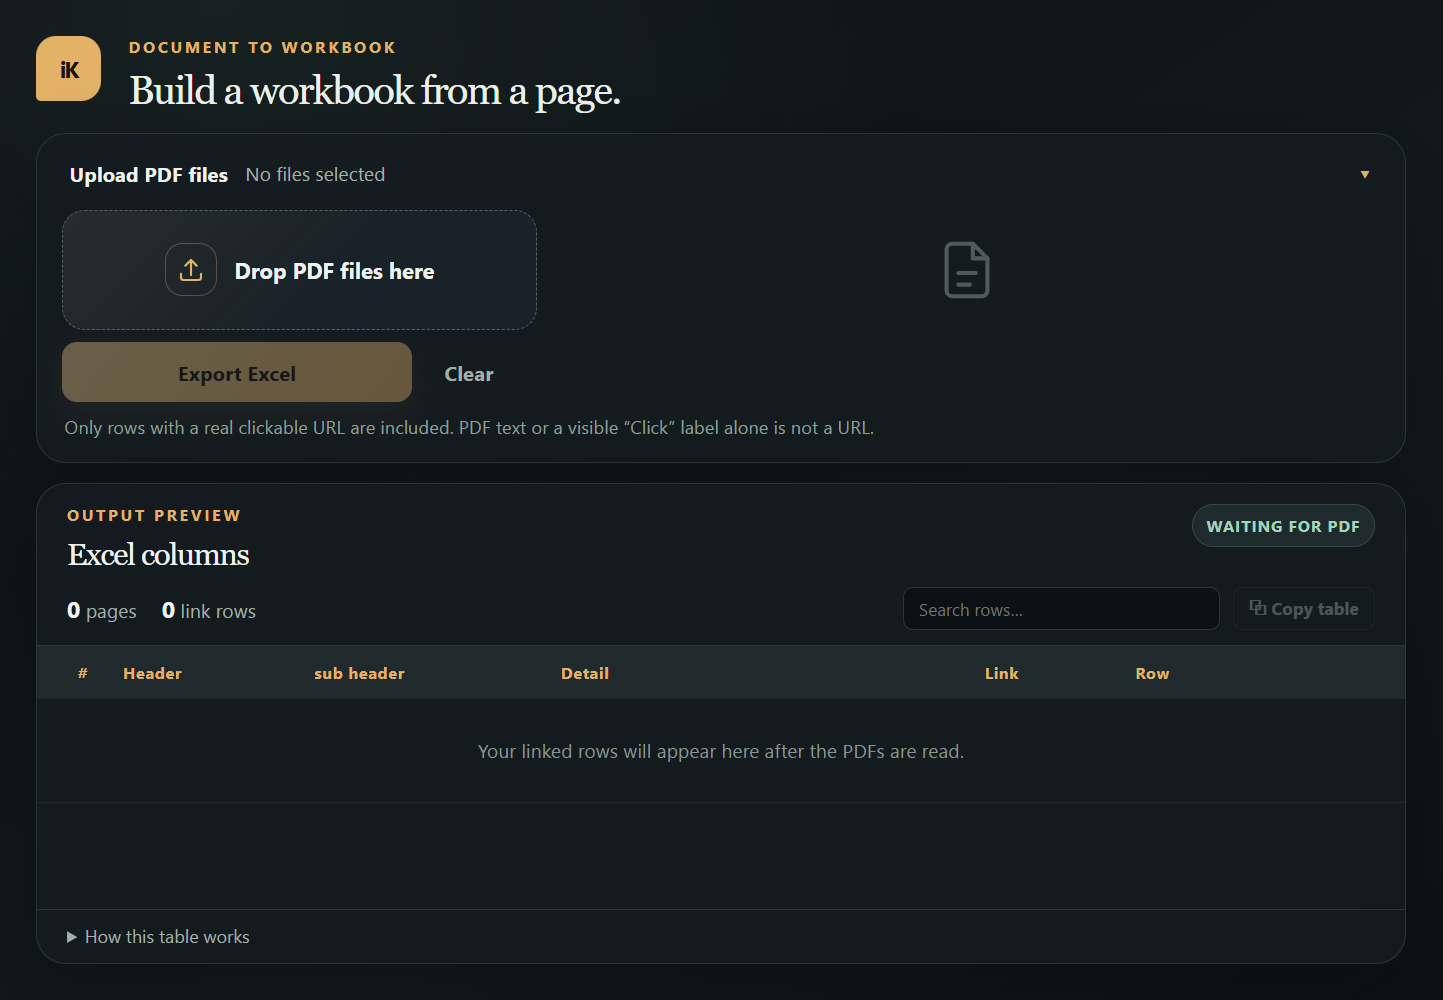
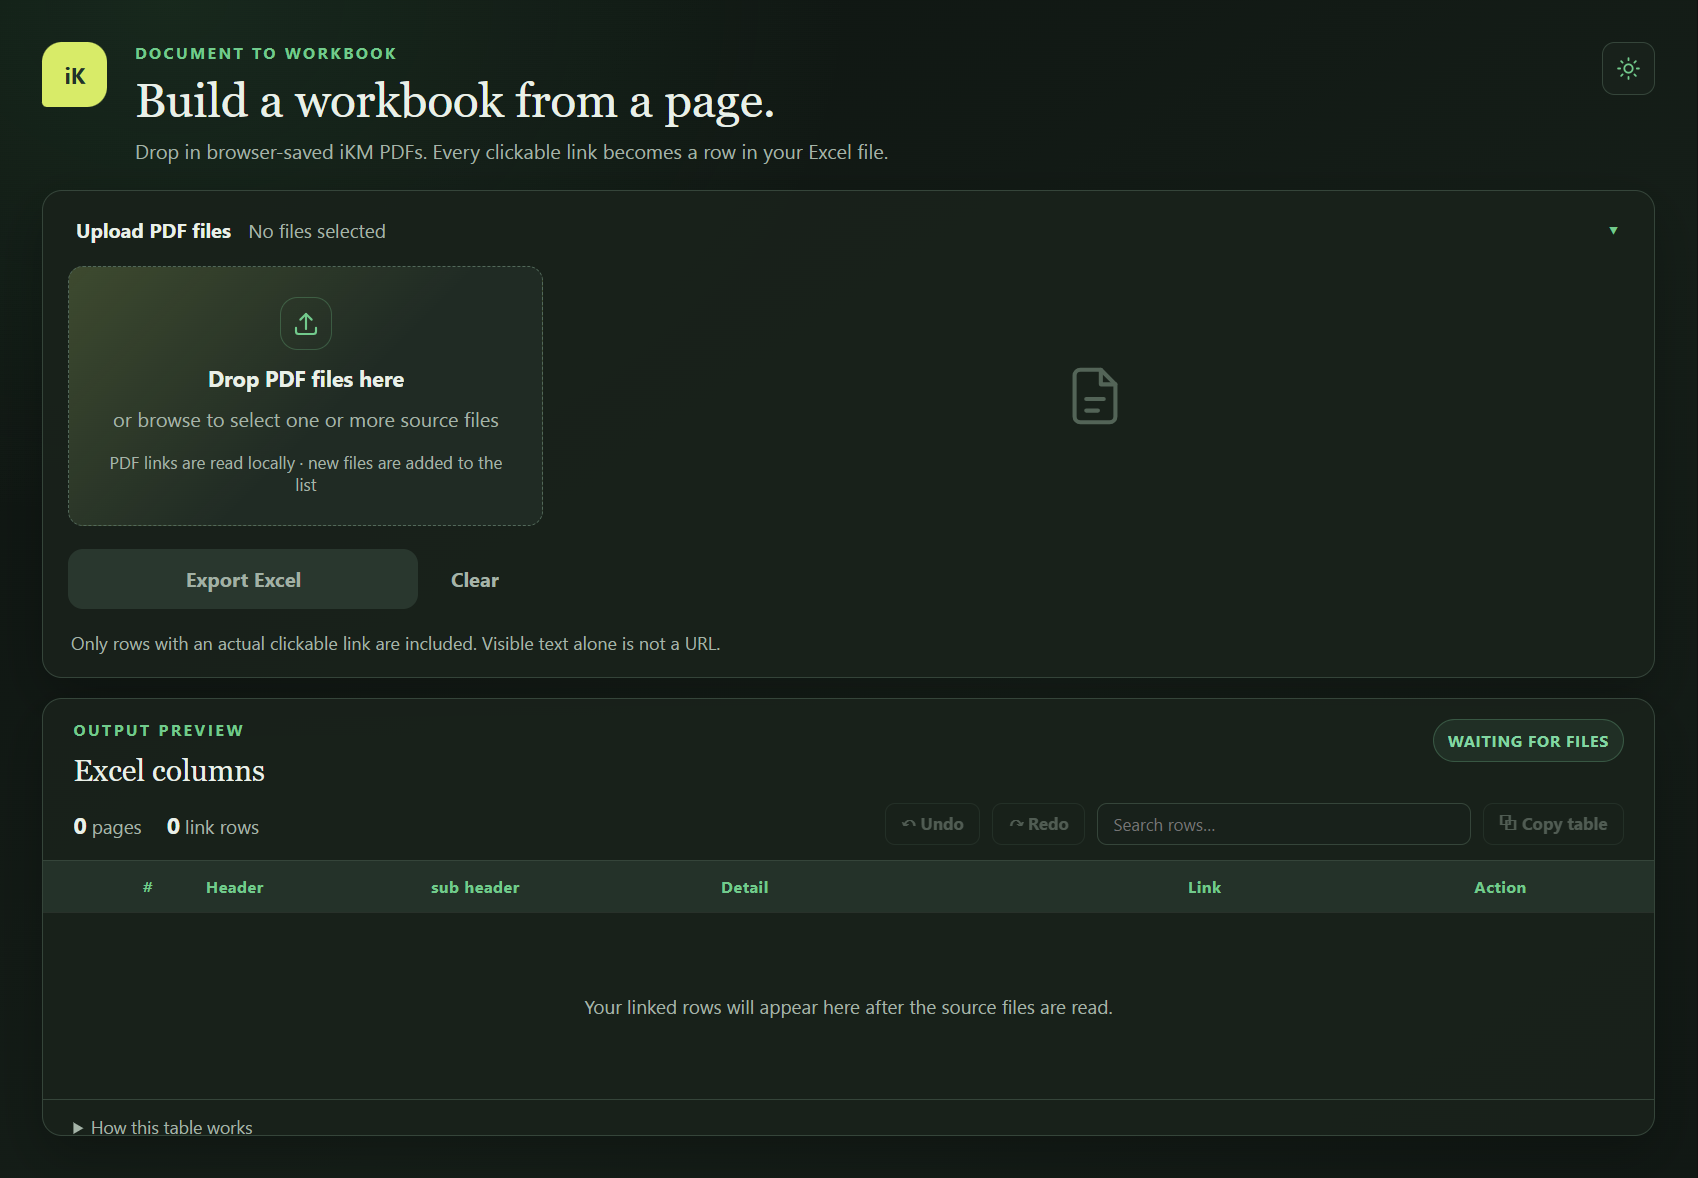
Update README usage steps and refresh screenshots

diff --git a/README.md b/README.md
@@ -35,19 +35,32 @@ Requirements: Python with `openpyxl` and `PyMuPDF` (both in `requirements.txt`).
 
 ## How to use it
 
-1. **Save the iKM page as PDF.** Use **Print → Save as PDF**; a screenshot or "Microsoft Print to PDF" does not keep clickable links.
-2. **Drop the PDF file(s) into the Upload area**, or click it to browse.
-3. **Wait for the progress bar.** The upload area then folds up into a summary such as `2 files · 29 pages · 78 links`, and the table moves up.
-4. **Review the table** (see [The preview table](#the-preview-table)): fix Detail text, adjust rows, search.
-5. **Get the result**, either way:
-   - **Export Excel** downloads one `.xlsx` (one sheet per PDF), or
-   - **⧉ Copy table** copies the open tab so you can paste it into Excel yourself.
+1. **Start the app.** Run `python server.py` and open the address it prints (default `http://127.0.0.1:8000/`). See [Quick start](#quick-start).
+2. **Save the iKM page as PDF.** In your browser use **Print → Save as PDF**. A screenshot or "Microsoft Print to PDF" does not keep clickable links. Repeat for every page you need.
+3. **Add the PDF file(s).** Drag them onto the Upload area, or click it to browse. Only `.pdf` files are accepted, and you can pick several at once.
+4. **Wait for the read to finish.** Each file shows its own progress while the server extracts the links. A file that cannot be read is marked **Failed** with the reason, and the other files are still loaded. When done, the upload area folds into a summary such as `2 files · 29 pages · 78 links` and the table appears.
+5. **Pick a file tab.** Each PDF gets its own tab with its row count. Click a tab to view or edit that file.
+6. **Review and fix the rows** (see [The preview table](#the-preview-table)):
+   1. Check **Detail** text and edit it where needed.
+   2. Edit **Header / sub header** if a group is wrong (unlock the cell to change just one row).
+   3. Open the pencil in **Link** to correct a URL (it must start with `http://` or `https://`).
+   4. Reorder with `⠿`, delete with `✕`, or add a row with the circled `+` between rows.
+   5. Use **Search rows…** to find a row; use **Undo / Redo** (Ctrl+Z / Ctrl+Y) if you change your mind.
+7. **Add or remove files if needed.** Open the **Upload PDF files** panel to add more PDFs, or press the trash-can button on a file's card to remove it and its rows (see below).
+8. **Get the result**, either way:
+   - **Export Excel** downloads one `.xlsx` (one sheet per PDF). If any hand-added or edited URL is empty or invalid, a **Check rows before export** dialog lists them; fix them and export again.
+   - **⧉ Copy table** copies the open tab so you can paste it into Excel yourself (see [Copy table](#copy-table)).
+9. **Start over (optional).** **Clear** removes every file and row after a confirmation.
 
 ![After reading two PDFs: the upload area folded into one line, one tab per PDF, and the preview table](docs/images/02-preview.png)
 
 ### Adding more files later
 
 Open the **Upload PDF files** panel again (click its header) and drop more files. They are **added** to the ones already loaded and nothing you edited is lost. A file with the same name as one already loaded becomes `name (2)`. Wait for the current read to finish before adding more. **Clear** removes everything and asks for confirmation first.
+
+### Removing one file
+
+In the opened **Upload PDF files** panel every file has its own card with a trash-can button. It removes that file and its rows (its tab and Excel sheet) and leaves the other files untouched. If the file has rows, a **Remove this file?** dialog asks you to confirm first, because your edits to those rows are lost. The buttons are disabled while files are being read, and Undo / Redo history is reset after a removal.
 
 ![The Upload PDF files panel opened again, listing the PDFs already read](docs/images/03-upload-panel.png)
 
@@ -96,7 +109,7 @@ Toolbar above the table:
 - **Search rows…** filters the open tab by Header, sub header, Detail or URL and shows `N of M`. Matching visible text is highlighted in browsers supporting the CSS Custom Highlight API (case-insensitive, literal search). It only changes what you see: export and copy always include every row. Rows you just added stay visible while you search.
 - **⧉ Copy table** (see below).
 
-![Searching for "invoice": 2 of 10 rows match, and the row numbers stay the same](docs/images/04-search.png)
+![Searching for "roaming": 4 of 10 rows match, and the row numbers stay the same](docs/images/04-search.png)
 
 Describing links that have no text:
 
